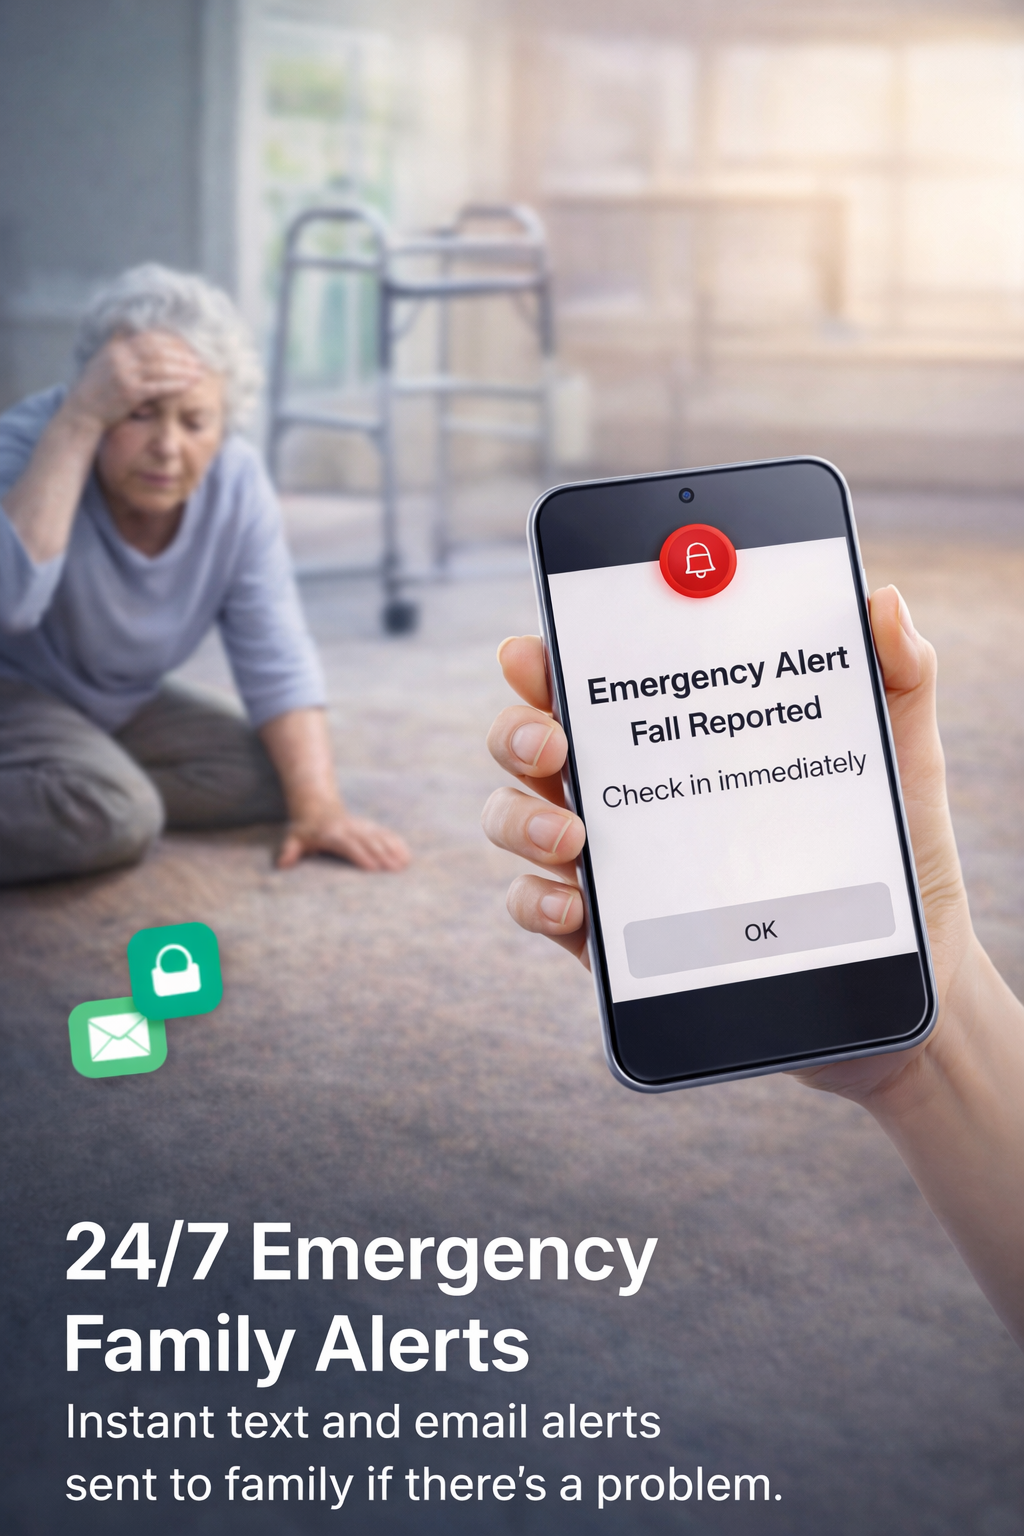
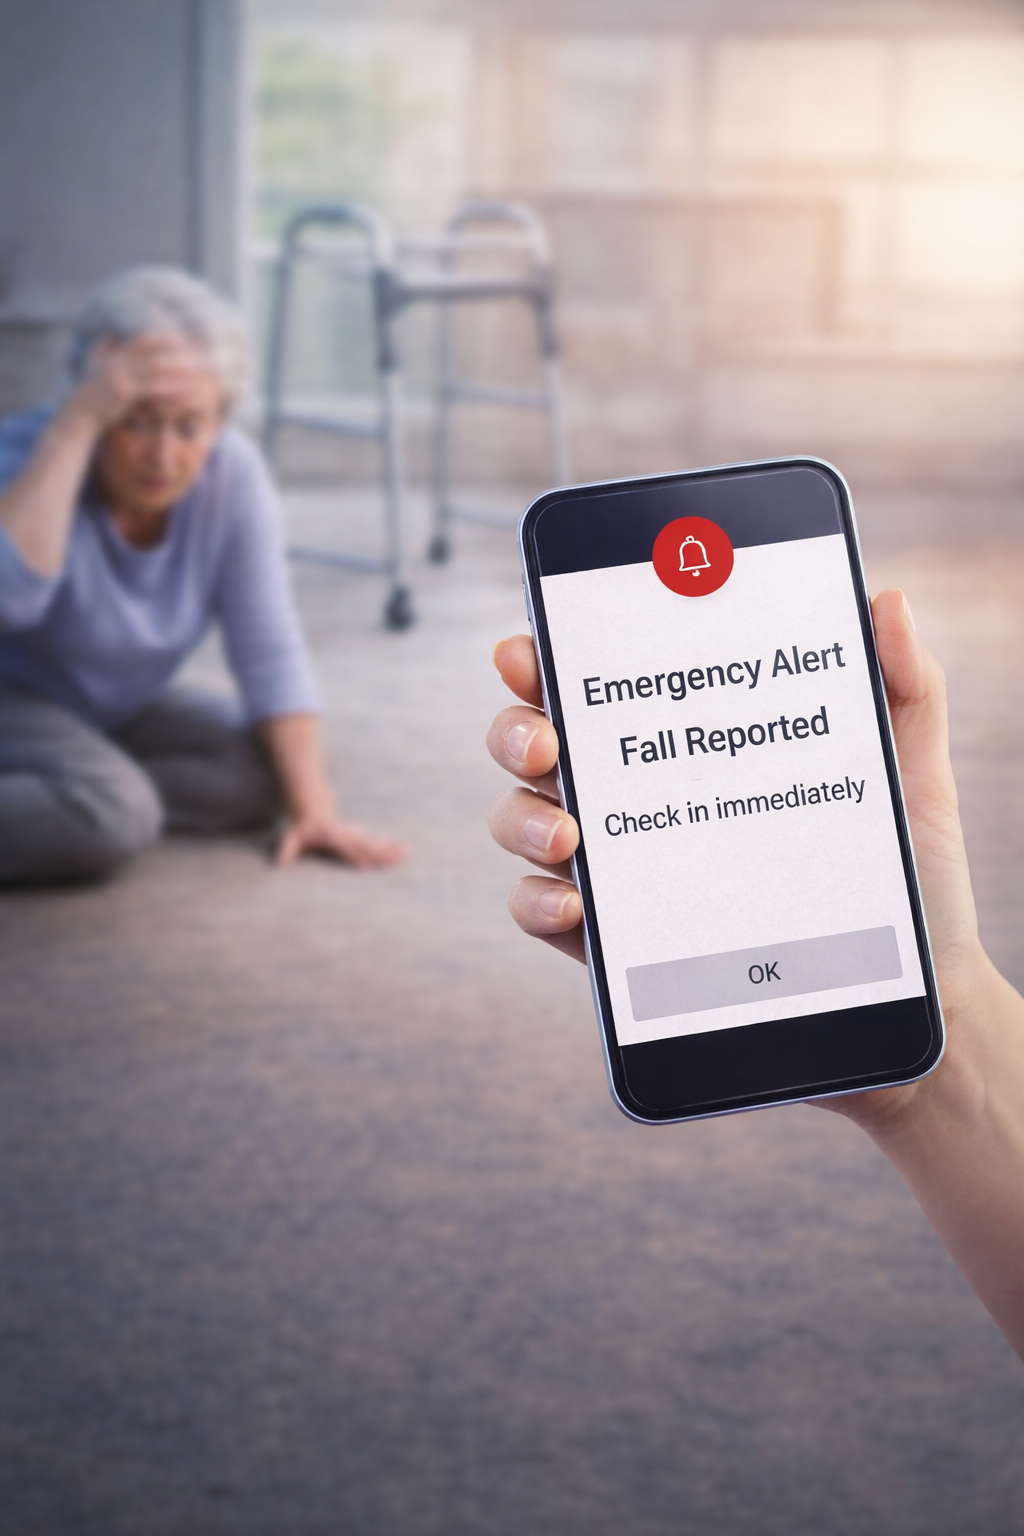
fix: better emergency alert image - old lady fallen visible, taller card

diff --git a/src/components/Services.tsx b/src/components/Services.tsx
@@ -91,11 +91,11 @@ export default function Services() {
               className="animate-on-scroll bg-white rounded-2xl overflow-hidden shadow-sm border border-gray-100 hover:shadow-md transition-shadow"
             >
               {/* Service Image */}
-              <div className="relative h-48 overflow-hidden">
+              <div className={`relative overflow-hidden ${service.image === '/emergency-alert.png' ? 'h-64' : 'h-48'}`}>
                 <img
                   src={service.image}
                   alt={service.alt}
-                  className="w-full h-full object-cover"
+                  className={`w-full h-full object-cover ${service.image === '/emergency-alert.png' ? 'object-center' : ''}`}
                   loading="lazy"
                 />
                 <div className="absolute inset-0 bg-gradient-to-t from-navy/60 to-transparent" />
